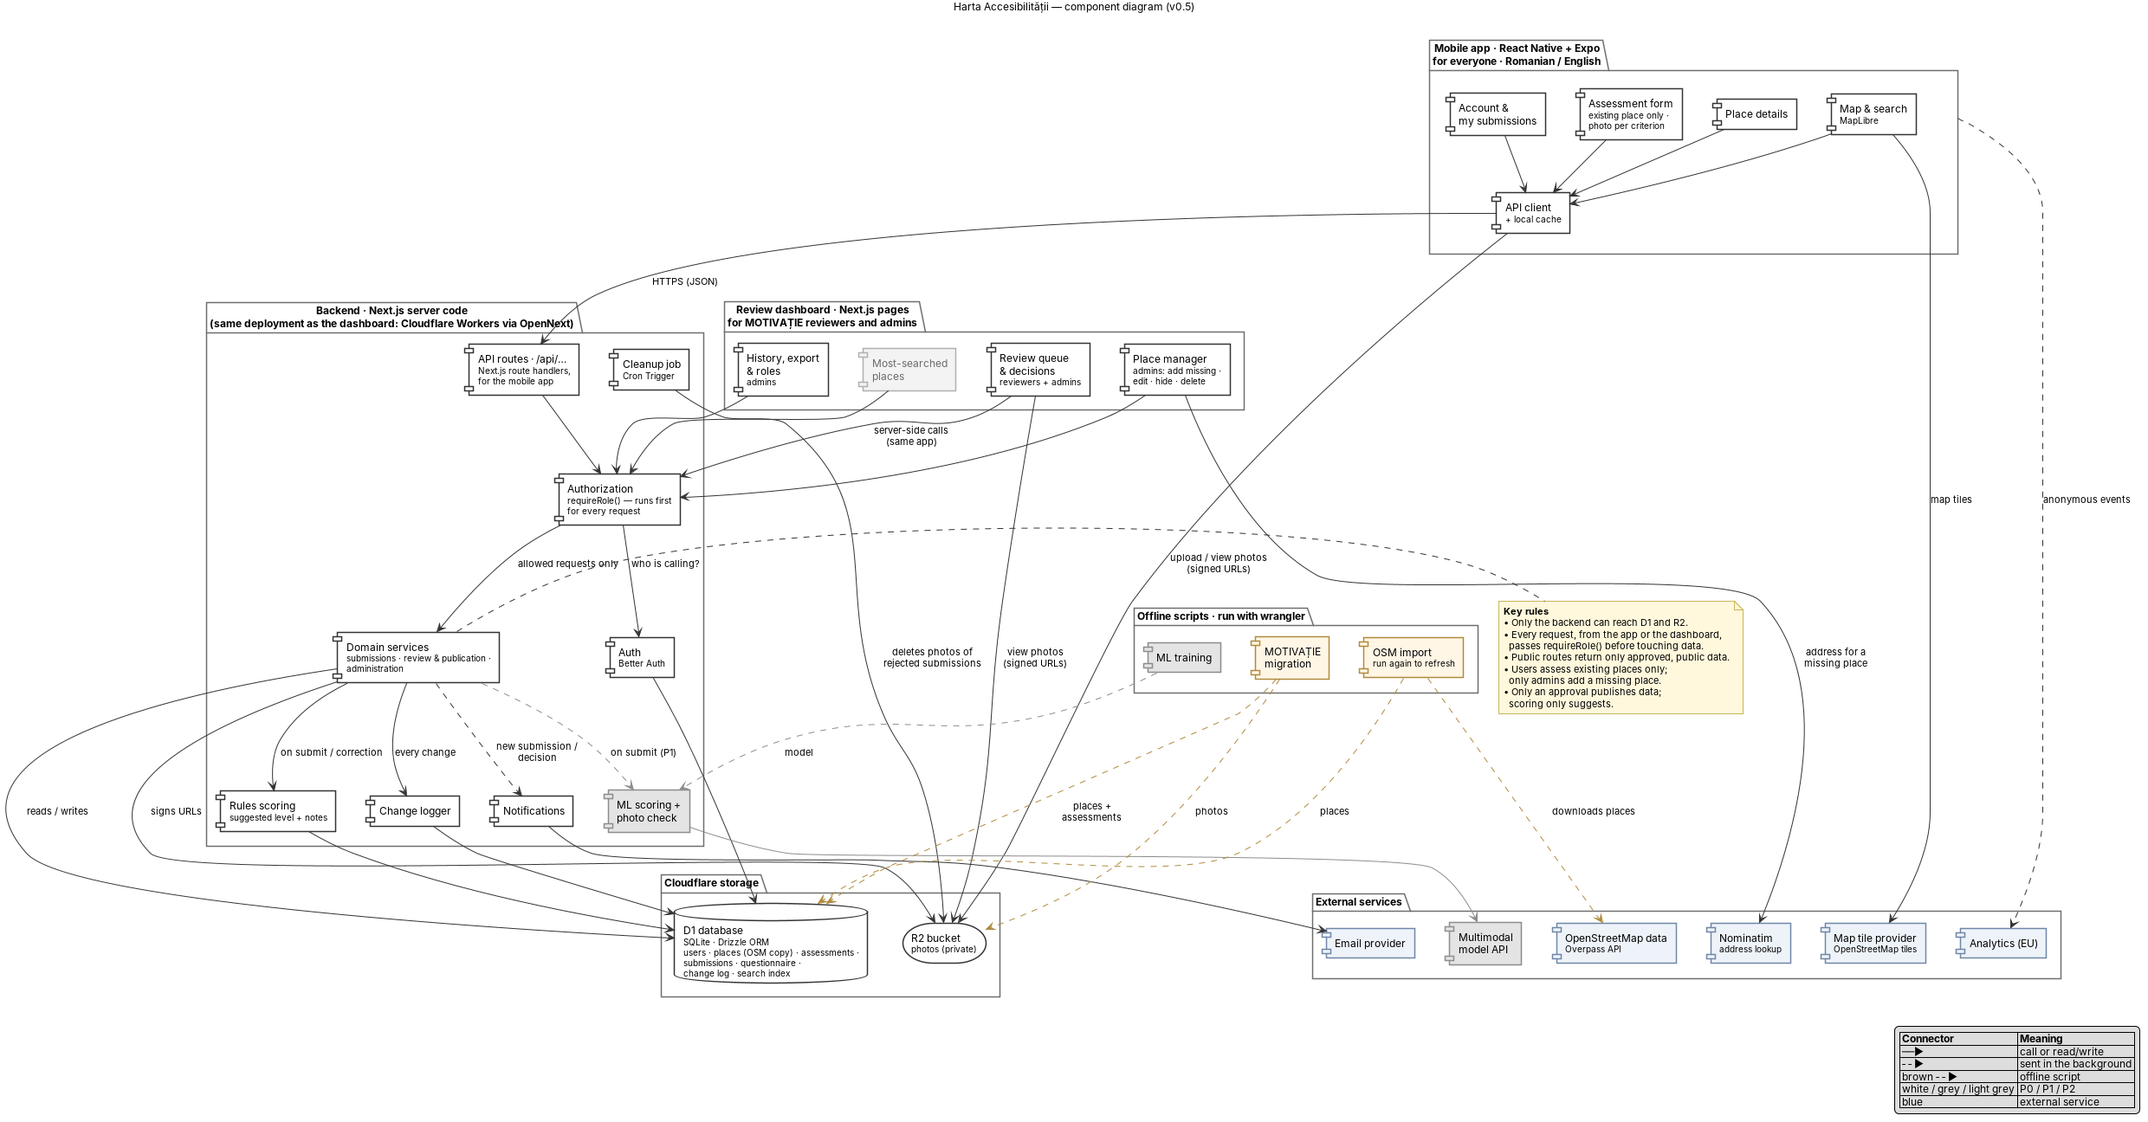
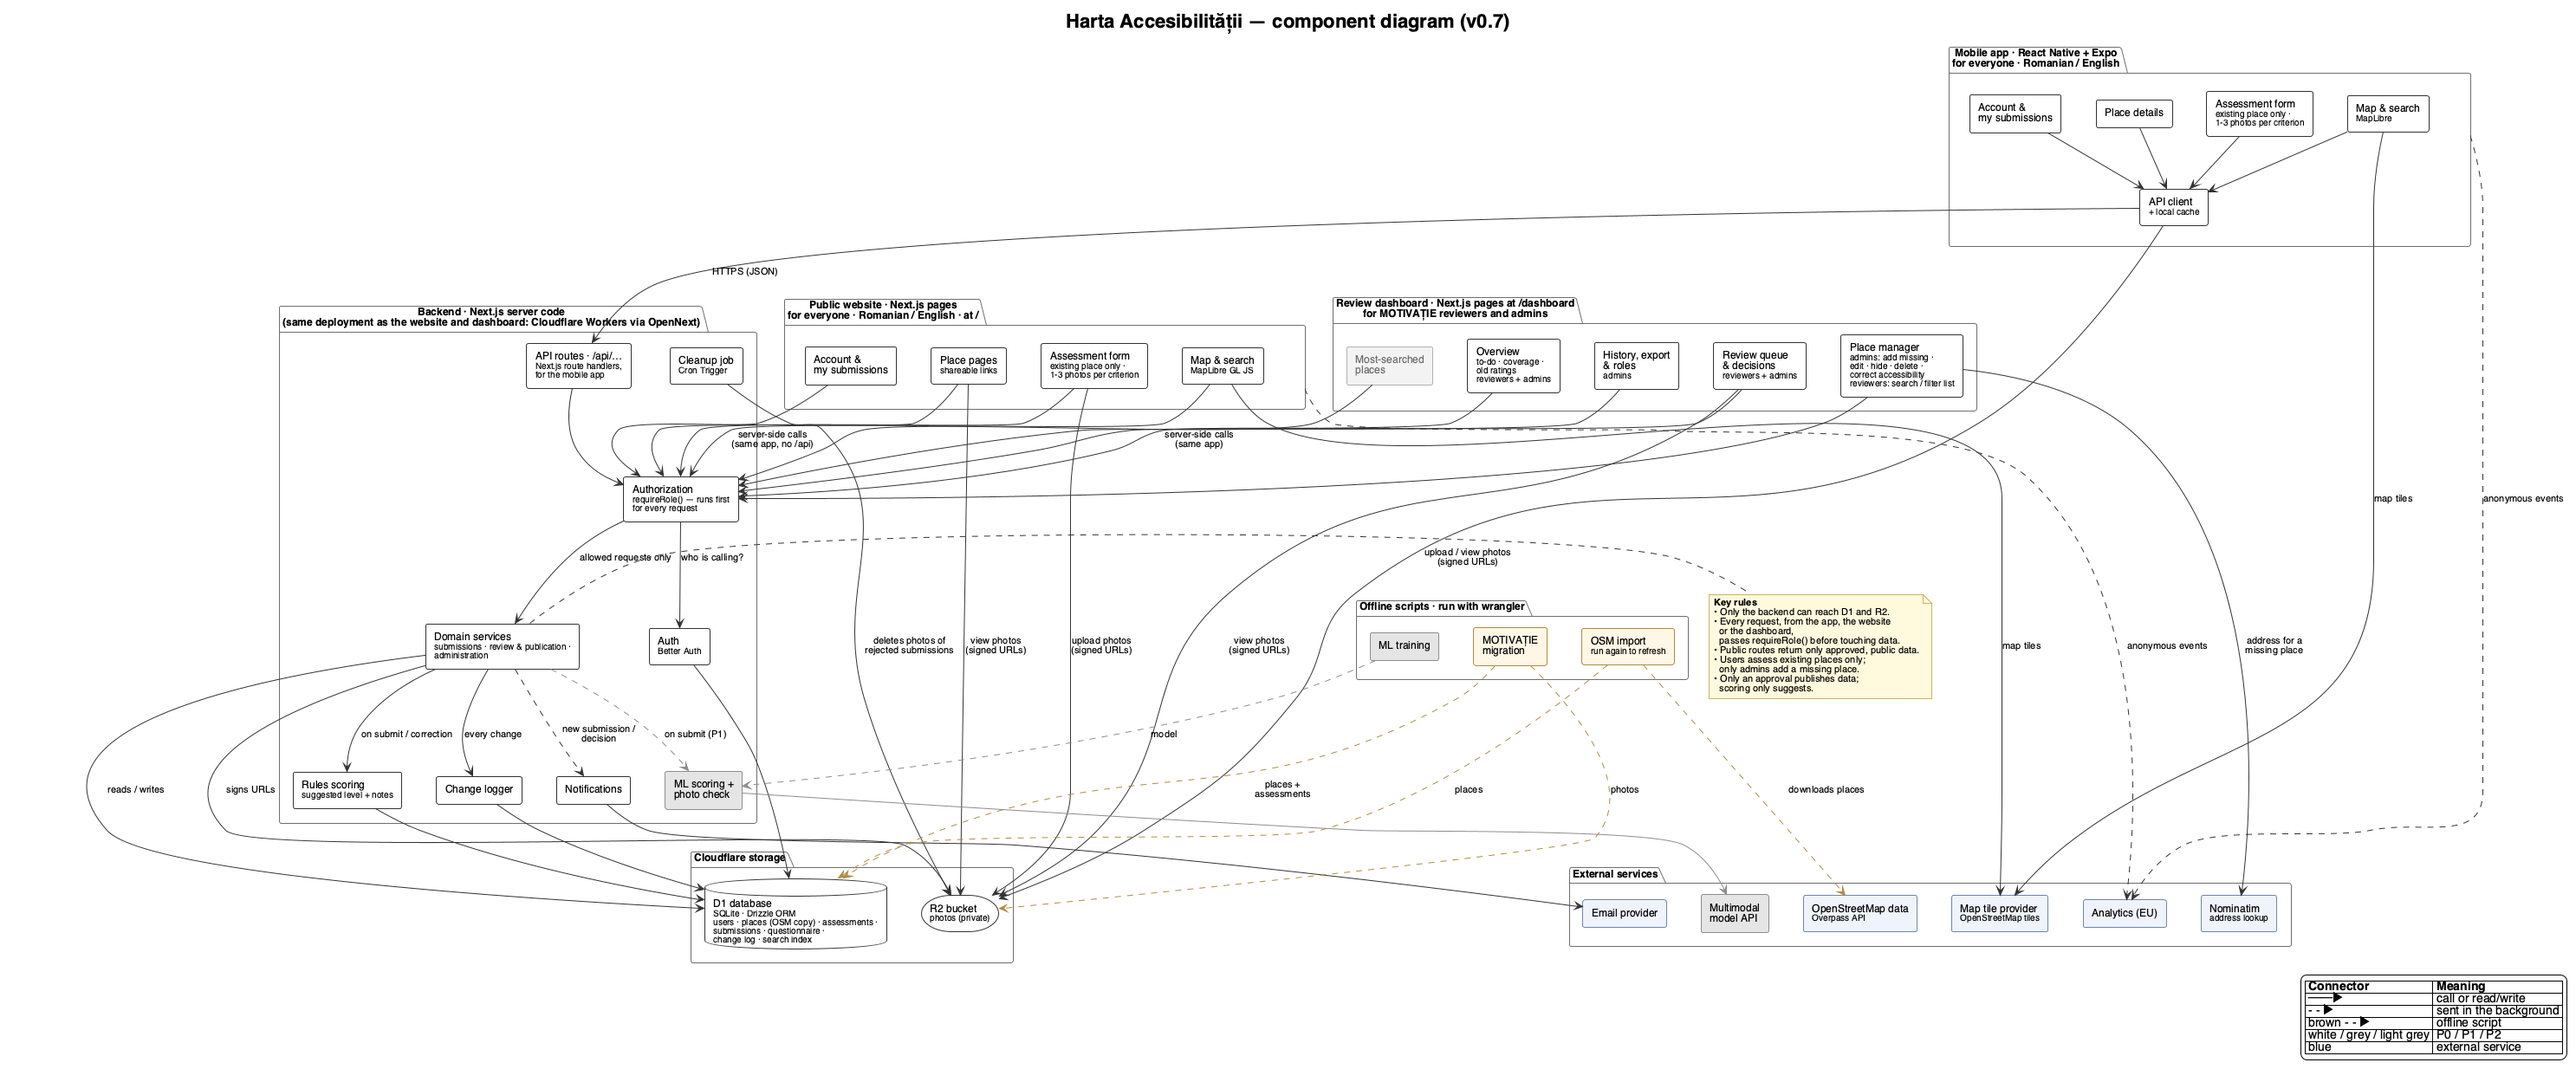
Diagrams: public website, dashboard updates; decisions: website as Next.js pages
06/07/08a/08b show the public website (Next.js pages at /, same app as the
dashboard; the Expo app uses /api). 06/07/08c/10 include the dashboard updates
(overview, search/filter places, admin corrections, search index with address).
1 to 3 photos per criterion; no markers for unrated places.

diff --git a/docs/decisions.md b/docs/decisions.md
@@ -136,6 +136,7 @@ Add new decisions at the top of the relevant section with a date.
 |---|---|---|
 | Mobile | React Native + Expo | Flutter (fewer maintainers know Dart), PWA (worse on phones) |
 | Dashboard + API | One Next.js app on Cloudflare Workers (OpenNext) | Separate Vite dashboard + Hono API (two projects to deploy and hand over) |
+| Public website | Next.js pages in the same app as the dashboard, calling the server code directly; the Expo app uses `/api` (2026-11-01) | Expo for web (one UI codebase with the app, but a second deployment, and the website couldn't share the dashboard's server code and sign-in as simply) |
 | API style | Next.js route handlers | Hono inside Next.js (extra tool; fine to add later if the API grows) |
 | Database | Cloudflare D1 (SQLite) + Drizzle | Supabase/Postgres (earlier plan; switched for cost and simplicity) |
 | Authorization | `requireRole()` helper called in every route/action | Row-level security (not available in D1); Next.js middleware alone (can be bypassed) |
@@ -163,8 +164,6 @@ Add new decisions at the top of the relevant section with a date.
 - [x] Compare our Better Auth tables with Better Auth 1.7's core schema (checked by hand 2026-10-30: same columns).
 - [ ] OSM refresh script: when an admin has edited an OSM place's name or location, should the import
       keep the admin's edit or take OpenStreetMap's? (Check the change log for admin edits before overwriting.)
-- [ ] How to build the public website (2026-11-01): Expo for web from the same codebase as the mobile app, or
-      pages in the Next.js app next to the dashboard. Decide before building the map.
 - [ ] Email service (for password reset, email verification and rejection emails) — not chosen yet.
 
 ## PRD sections known to be outdated
